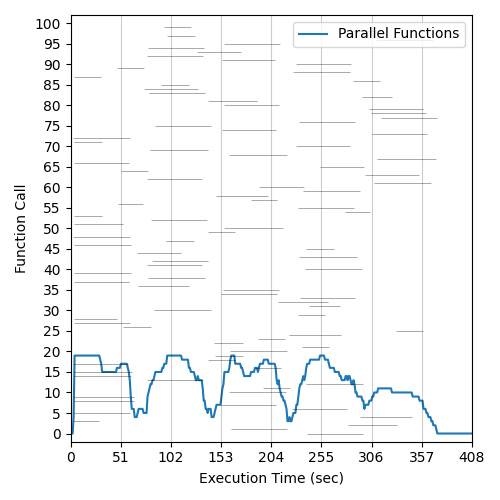
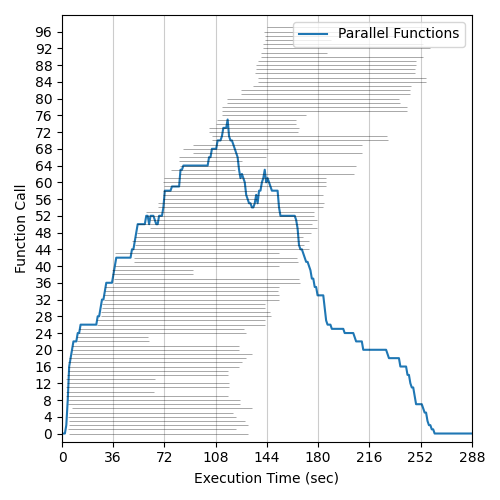
update azure functions 100 flows bench

diff --git a/benchmarks/flops/flops_benchmark.py b/benchmarks/flops/flops_benchmark.py
@@ -38,27 +38,31 @@ def compute_flops(loopcount, MAT_N):
     return {'flops': FLOPS / (end-start)}
 
 
-def benchmark(backend, storage, tasks, memory, loopcount, matn, debug):
-    iterable = [(loopcount, matn) for i in range(tasks)]
+def benchmark(backend, storage, workers, memory, loopcount, matn, debug):
+    iterable = [(loopcount, matn) for i in range(workers)]
     log_level = 'INFO' if not debug else 'DEBUG'
     fexec = FunctionExecutor(backend=backend, storage=storage, runtime_memory=memory, log_level=log_level)
     start_time = time.time()
     worker_futures = fexec.map(compute_flops, iterable)
-    results = fexec.get_result()
+    results = fexec.get_result(throw_except=False)
     end_time = time.time()
-
-    worker_stats = [f.stats for f in worker_futures]
+    results = [flops for flops in results if flops is not None]
+    worker_stats = [f.stats for f in worker_futures if not f.error]
     total_time = end_time-start_time
-
+    
     print("Total time:", round(total_time, 3))
-    est_flops = tasks * 2 * loopcount * matn ** 3
+    toal_executed_tasks = len(worker_stats)
+    est_flops = toal_executed_tasks * 2 * loopcount * matn ** 3
     print('Estimated GFLOPS:', round(est_flops / 1e9 / total_time, 4))
 
     res = {'start_time': start_time,
            'total_time': total_time,
            'est_flops': est_flops,
            'worker_stats': worker_stats,
-           'results': results}
+           'results': results,
+           'workers': toal_executed_tasks,
+           'loopcount': loopcount,
+           'MATN': matn}
 
     return res
 
@@ -83,12 +87,9 @@ def run_benchmark(backend, storage, tasks, memory, outdir, name, loopcount, matn
     name = '{}_flops'.format(tasks) if name is None else name
     if True:
         res = benchmark(backend, storage, tasks, memory, loopcount, matn, debug)
-        res['loopcount'] = loopcount
-        res['workers'] = tasks
-        res['MATN'] = matn
-        pickle.dump(res, open('{}/{}.pickle'.format(outdir, name), 'wb'))
+        pickle.dump(res, open(f'{outdir}/{name}.pickle', 'wb'))
     else:
-        res = pickle.load(open('{}/{}.pickle'.format(outdir, name), 'rb'))
+        res = pickle.load(open(f'{outdir}/{name}.pickle', 'rb'))
     create_plots(res, outdir, name)
 
 

diff --git a/benchmarks/flops/azure_functions/README.md b/benchmarks/flops/azure_functions/README.md
@@ -12,4 +12,8 @@
 ## Total Invocations: 1000 - Runtime Memory: MAX - Date: 11/06/2022
 ### Execution Histogram | GFLOP Rates | Peak and Effective GFLOPS
 
-* **Note**: Azure Functions limits the scalability of the functions, so the results of the previous benchmark are applicable to any number of invocations >= 100.
+<p align="center">
+  <img width="33%" src="1000_flops_execution.png"></img>
+  <img width="33%" src="1000_flops_rates.png"></img>
+  <img width="33%" src="1000_flops_gflops.png"></img>
+</p>
